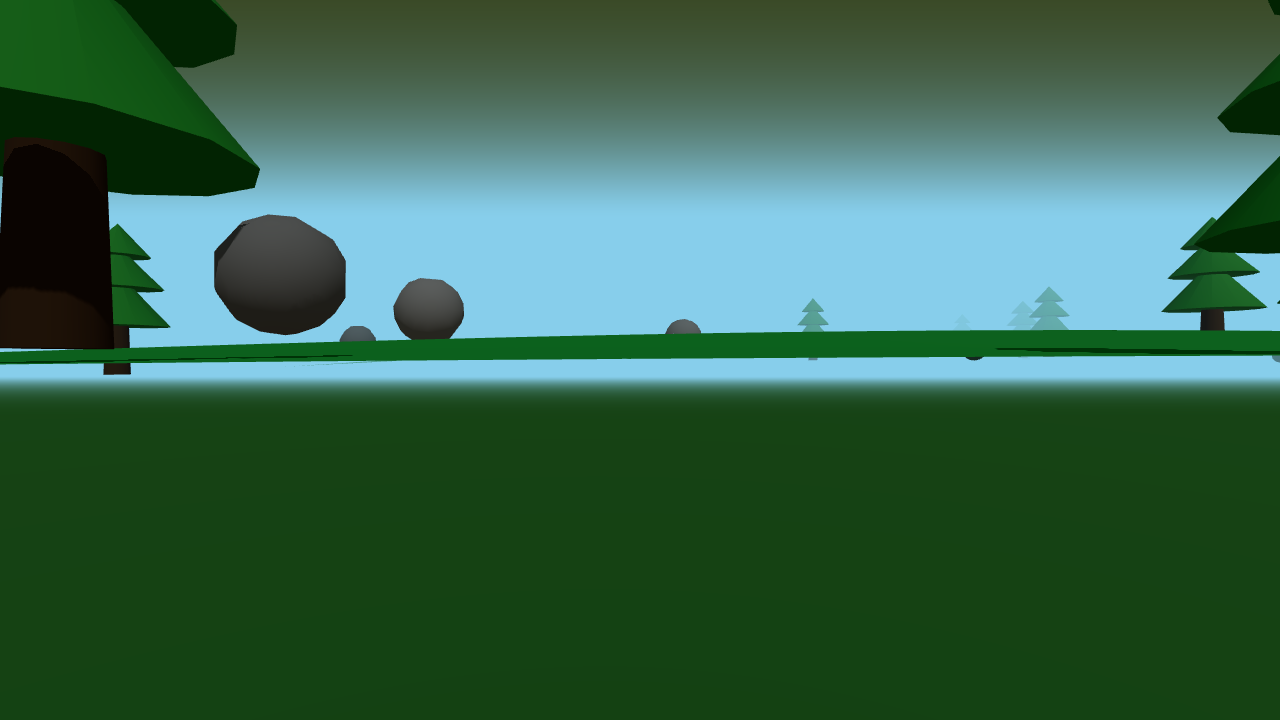
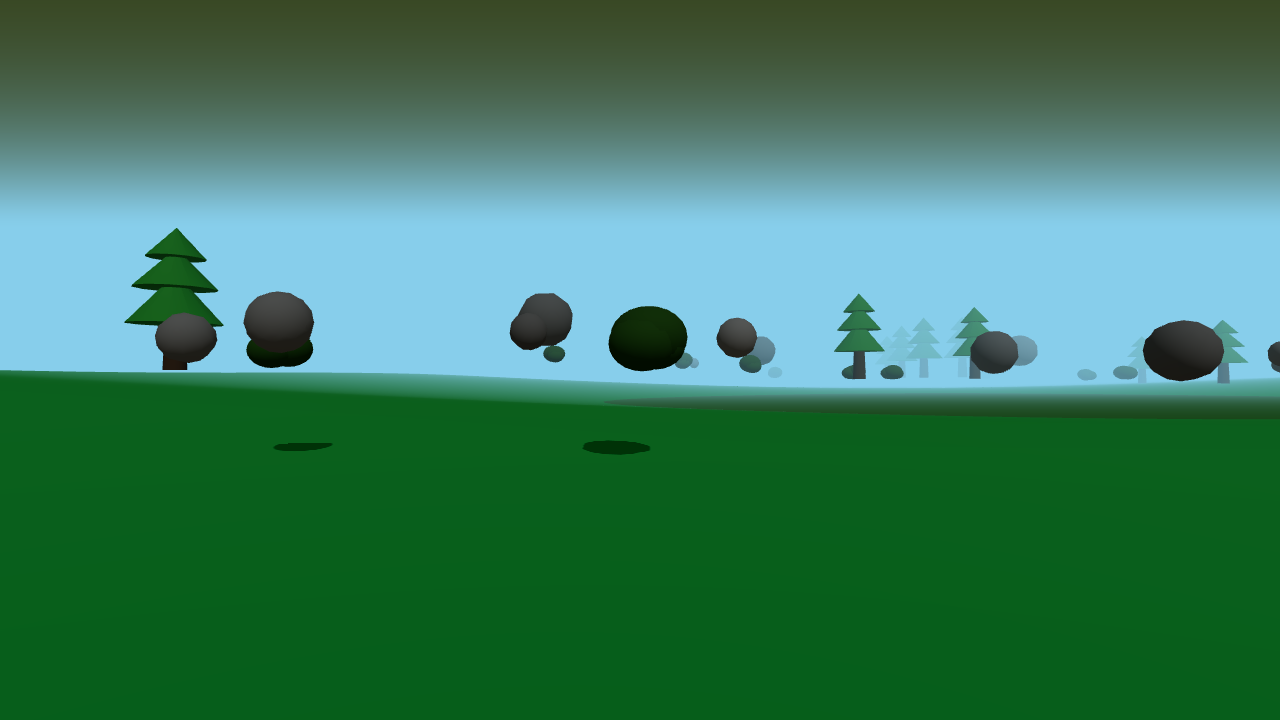
Add comprehensive walking exploration screenshots for wild zone verification

diff --git a/capture-screenshots.js b/capture-screenshots.js
@@ -247,6 +247,97 @@ const cameraPositions = [
         camera: { x: 0, z: -30 },
         target: { x: 0, z: -80 },
         heightOffset: 2.5
+    },
+    
+    // ===== WALKING EXPLORATION - Simulating player movement =====
+    // Walk around wild zone checking different areas
+    {
+        name: '51_walk_wild_north',
+        description: 'Walking north in wild zone',
+        map: 'wild',
+        groundLevel: true,
+        camera: { x: 0, z: -150 },
+        target: { x: 0, z: -200 },
+        heightOffset: 2.5
+    },
+    {
+        name: '52_walk_wild_east',
+        description: 'Walking east in wild zone',
+        map: 'wild',
+        groundLevel: true,
+        camera: { x: 80, z: 0 },
+        target: { x: 120, z: 0 },
+        heightOffset: 2.5
+    },
+    {
+        name: '53_walk_wild_west',
+        description: 'Walking west in wild zone',
+        map: 'wild',
+        groundLevel: true,
+        camera: { x: -80, z: 0 },
+        target: { x: -120, z: 0 },
+        heightOffset: 2.5
+    },
+    {
+        name: '54_walk_wild_south',
+        description: 'Walking south in wild zone',
+        map: 'wild',
+        groundLevel: true,
+        camera: { x: 0, z: 150 },
+        target: { x: 0, z: 200 },
+        heightOffset: 2.5
+    },
+    {
+        name: '55_walk_wild_northeast',
+        description: 'Walking northeast in wild zone',
+        map: 'wild',
+        groundLevel: true,
+        camera: { x: 60, z: -60 },
+        target: { x: 100, z: -100 },
+        heightOffset: 2.5
+    },
+    {
+        name: '56_walk_wild_southwest',
+        description: 'Walking southwest in wild zone',
+        map: 'wild',
+        groundLevel: true,
+        camera: { x: -60, z: 60 },
+        target: { x: -100, z: 100 },
+        heightOffset: 2.5
+    },
+    {
+        name: '57_walk_wild_closeup_tree',
+        description: 'Close-up of tree placement on terrain',
+        map: 'wild',
+        groundLevel: true,
+        camera: { x: 30, z: 30 },
+        target: { x: 35, z: 35 },
+        heightOffset: 1.0
+    },
+    {
+        name: '58_walk_wild_closeup_rock',
+        description: 'Close-up of rock placement on terrain',
+        map: 'wild',
+        groundLevel: true,
+        camera: { x: -30, z: -30 },
+        target: { x: -35, z: -35 },
+        heightOffset: 0.5
+    },
+    {
+        name: '59_walk_wild_monster_encounter',
+        description: 'Ground-level monster encounter view',
+        map: 'wild',
+        groundLevel: true,
+        camera: { x: 20, z: 20 },
+        target: { x: 0, z: 0 },
+        heightOffset: 2.5
+    },
+    {
+        name: '60_walk_wild_panorama',
+        description: 'Wide panorama view of wild zone',
+        map: 'wild',
+        camera: { x: 0, y: 60, z: 100 },
+        target: { x: 0, y: 0, z: -50 }
     }
 ];
 

diff --git a/screenshot-test-report.md b/screenshot-test-report.md
@@ -1,13 +1,13 @@
 # Automated Screenshot Test Report
 
-Generated: 2025-11-25T11:17:01.521Z
+Generated: 2025-11-25T12:30:07.128Z
 
 ## Summary
 
-- Total screenshots captured: 25/25
+- Total screenshots captured: 35/35
 - Village map views: 15
-- Wild zone views: 10
-- Ground-level views: 19
+- Wild zone views: 20
+- Ground-level views: 28
 
 ## Village Map Screenshots
 
@@ -36,13 +36,23 @@ Generated: 2025-11-25T11:17:01.521Z
 | 1 | 31_wild_overview | (0.00, 40.00, 50.00) | Wild zone overview from above |
 | 2 | 32_wild_monsters_area | (30.00, 25.00, 30.00) | Wild zone monsters roaming area |
 | 3 | 33_wild_npc_trainer | (0.00, 20.00, -190.00) | Wild zone NPC trainer area (overhead) |
-| 4 | 41_ground_wild_center | (0.00, 1.91, 0.00) | Ground-level: Wild zone center view |
-| 5 | 42_ground_wild_monsters | (-20.00, 2.78, 20.00) | Ground-level: Looking at wild monsters area |
-| 6 | 43_ground_wild_trees | (50.00, 0.11, 50.00) | Ground-level: Trees and nature elements |
-| 7 | 44_ground_wild_rocks | (-40.00, 0.70, -40.00) | Ground-level: Rocks on terrain |
-| 8 | 45_ground_wild_npc | (10.00, 2.02, -200.00) | Ground-level: NPC trainer in wild zone |
-| 9 | 46_ground_wild_terrain | (0.00, 1.04, -100.00) | Ground-level: Terrain height variation check |
-| 10 | 47_wild_player_perspective | (0.00, 1.50, -30.00) | Player perspective: Looking across wild zone |
+| 4 | 41_ground_wild_center | (0.00, 1.60, 0.00) | Ground-level: Wild zone center view |
+| 5 | 42_ground_wild_monsters | (-20.00, -0.16, 20.00) | Ground-level: Looking at wild monsters area |
+| 6 | 43_ground_wild_trees | (50.00, 0.60, 50.00) | Ground-level: Trees and nature elements |
+| 7 | 44_ground_wild_rocks | (-40.00, 0.90, -40.00) | Ground-level: Rocks on terrain |
+| 8 | 45_ground_wild_npc | (10.00, 0.78, -200.00) | Ground-level: NPC trainer in wild zone |
+| 9 | 46_ground_wild_terrain | (0.00, 0.58, -100.00) | Ground-level: Terrain height variation check |
+| 10 | 47_wild_player_perspective | (0.00, 1.87, -30.00) | Player perspective: Looking across wild zone |
+| 11 | 51_walk_wild_north | (0.00, 2.84, -150.00) | Walking north in wild zone |
+| 12 | 52_walk_wild_east | (80.00, 2.50, 0.00) | Walking east in wild zone |
+| 13 | 53_walk_wild_west | (-80.00, 1.09, 0.00) | Walking west in wild zone |
+| 14 | 54_walk_wild_south | (0.00, -0.36, 150.00) | Walking south in wild zone |
+| 15 | 55_walk_wild_northeast | (60.00, 3.87, -60.00) | Walking northeast in wild zone |
+| 16 | 56_walk_wild_southwest | (-60.00, -0.22, 60.00) | Walking southwest in wild zone |
+| 17 | 57_walk_wild_closeup_tree | (30.00, 0.44, 30.00) | Close-up of tree placement on terrain |
+| 18 | 58_walk_wild_closeup_rock | (-30.00, 0.66, -30.00) | Close-up of rock placement on terrain |
+| 19 | 59_walk_wild_monster_encounter | (20.00, 1.94, 20.00) | Ground-level monster encounter view |
+| 20 | 60_walk_wild_panorama | (0.00, 60.00, 100.00) | Wide panorama view of wild zone |
 
 ## Ground-Level Views ("A Raso Terra")
 
@@ -166,6 +176,60 @@ This perspective reveals objects that may be partially underground or floating a
 - **Camera**: (0, terrain+2.5, -30)
 - **Target**: (0, terrain+2.5, -80)
 - **File**: screenshots/47_wild_player_perspective.png
+
+#### 51_walk_wild_north
+- **Description**: Walking north in wild zone
+- **Camera**: (0, terrain+2.5, -150)
+- **Target**: (0, terrain+2.5, -200)
+- **File**: screenshots/51_walk_wild_north.png
+
+#### 52_walk_wild_east
+- **Description**: Walking east in wild zone
+- **Camera**: (80, terrain+2.5, 0)
+- **Target**: (120, terrain+2.5, 0)
+- **File**: screenshots/52_walk_wild_east.png
+
+#### 53_walk_wild_west
+- **Description**: Walking west in wild zone
+- **Camera**: (-80, terrain+2.5, 0)
+- **Target**: (-120, terrain+2.5, 0)
+- **File**: screenshots/53_walk_wild_west.png
+
+#### 54_walk_wild_south
+- **Description**: Walking south in wild zone
+- **Camera**: (0, terrain+2.5, 150)
+- **Target**: (0, terrain+2.5, 200)
+- **File**: screenshots/54_walk_wild_south.png
+
+#### 55_walk_wild_northeast
+- **Description**: Walking northeast in wild zone
+- **Camera**: (60, terrain+2.5, -60)
+- **Target**: (100, terrain+2.5, -100)
+- **File**: screenshots/55_walk_wild_northeast.png
+
+#### 56_walk_wild_southwest
+- **Description**: Walking southwest in wild zone
+- **Camera**: (-60, terrain+2.5, 60)
+- **Target**: (-100, terrain+2.5, 100)
+- **File**: screenshots/56_walk_wild_southwest.png
+
+#### 57_walk_wild_closeup_tree
+- **Description**: Close-up of tree placement on terrain
+- **Camera**: (30, terrain+1, 30)
+- **Target**: (35, terrain+1, 35)
+- **File**: screenshots/57_walk_wild_closeup_tree.png
+
+#### 58_walk_wild_closeup_rock
+- **Description**: Close-up of rock placement on terrain
+- **Camera**: (-30, terrain+0.5, -30)
+- **Target**: (-35, terrain+0.5, -35)
+- **File**: screenshots/58_walk_wild_closeup_rock.png
+
+#### 59_walk_wild_monster_encounter
+- **Description**: Ground-level monster encounter view
+- **Camera**: (20, terrain+2.5, 20)
+- **Target**: (0, terrain+2.5, 0)
+- **File**: screenshots/59_walk_wild_monster_encounter.png
 
 ## Notes
 
